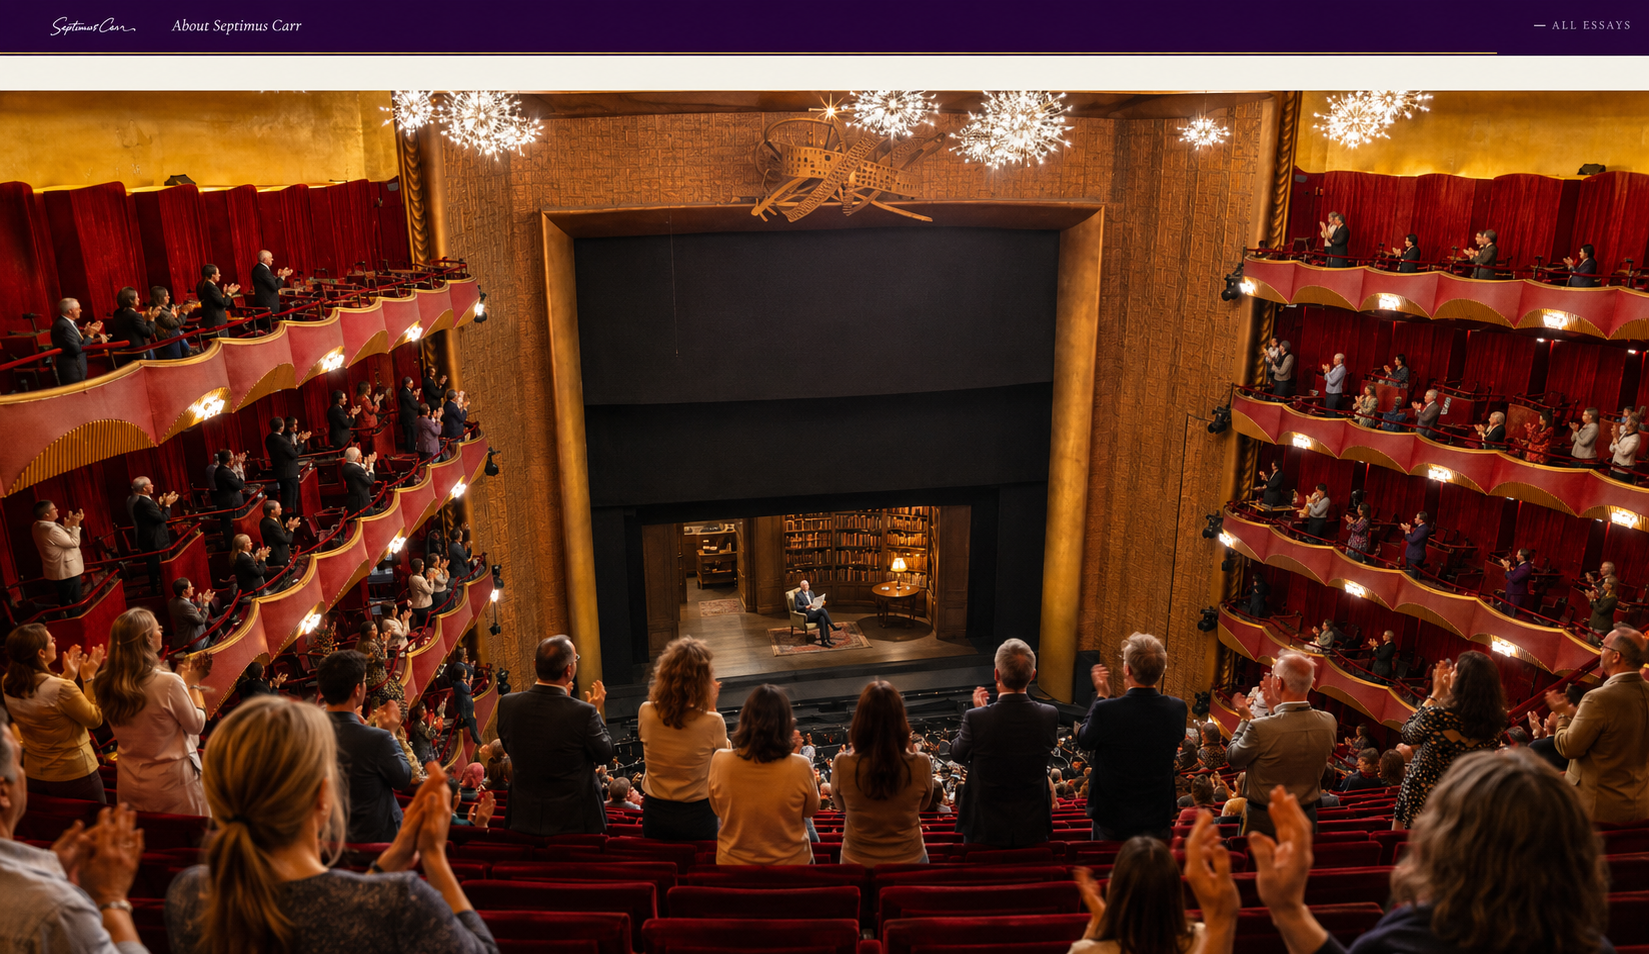
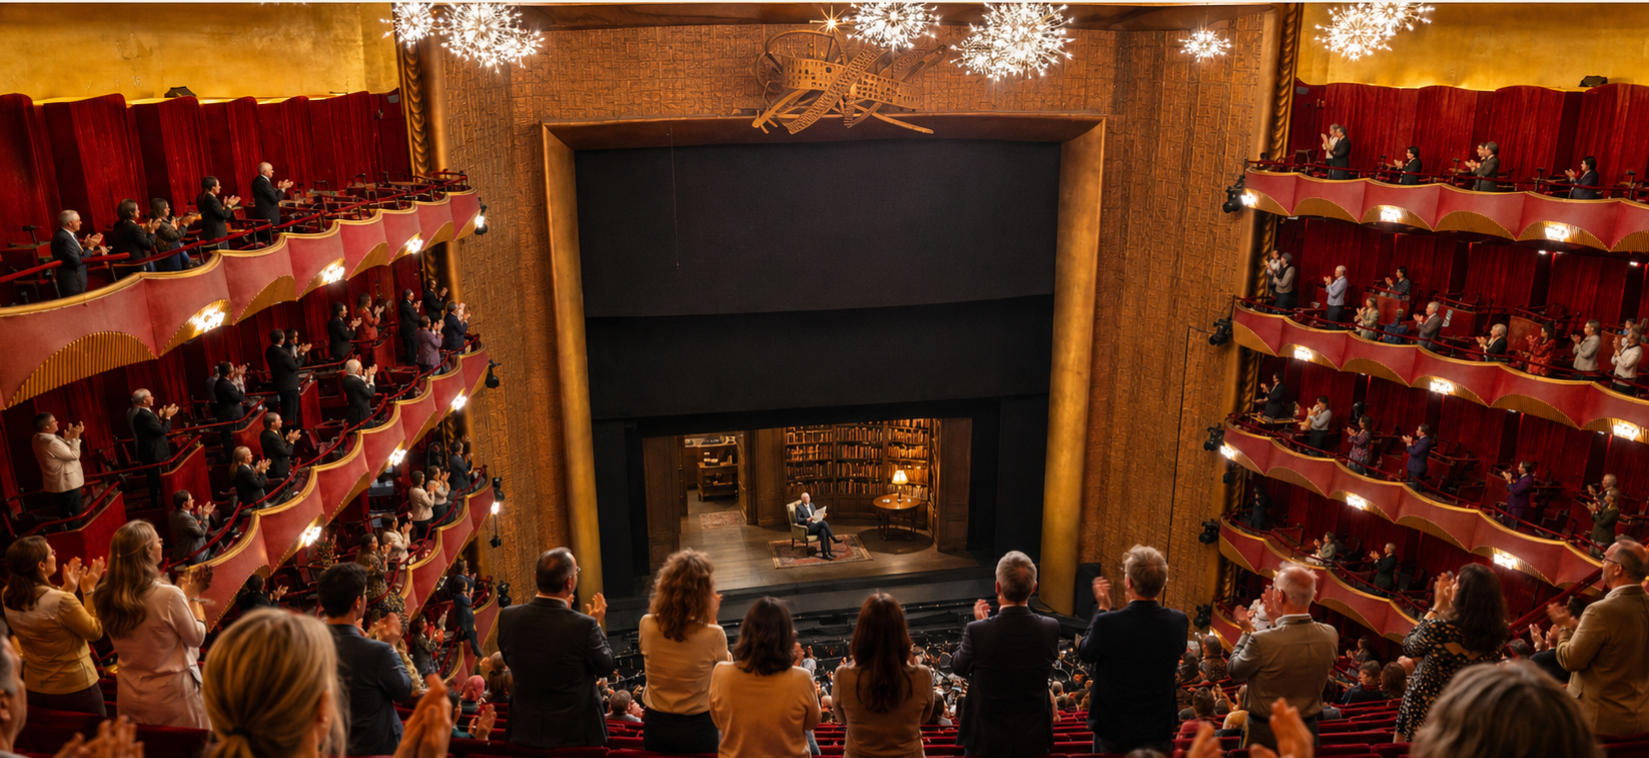
fix

diff --git a/static/css/main.css b/static/css/main.css
@@ -324,27 +324,6 @@ blockquote cite {
   margin-left: calc(-1 * ((100vw - 100%) / 2));
   margin-right: calc(-1 * ((100vw - 100%) / 2));
 }
-.about-performance figcaption {
-  font-size: 0.78rem;
-  letter-spacing: .1em;
-  text-transform: uppercase;
-  color: #C4A055;
-  margin-top: 0.6rem;
-  text-align: right;
-}
-.about-performance img {
-  max-height: 650px;
-  object-position: center center;
-}
-.about-performance figcaption {
-  font-size: 0.78rem;
-  letter-spacing: .1em;
-  text-transform: uppercase;
-  color: #C4A055;
-  margin-top: 0.6rem;
-  text-align: center;
-  padding-left: 2rem;
-}
 /* ── About page: nav cards ────────────────────────────────── */
 .about-nav {
   display: flex;
